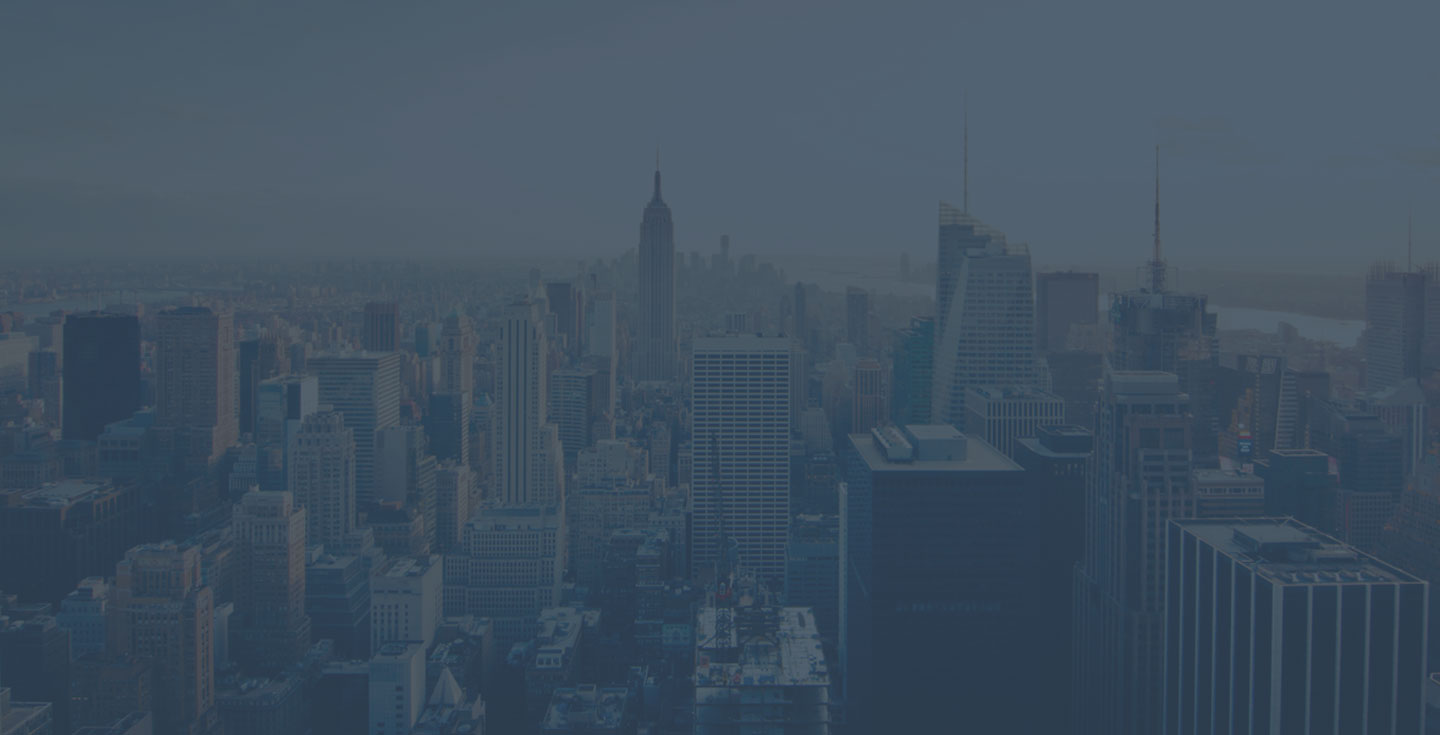
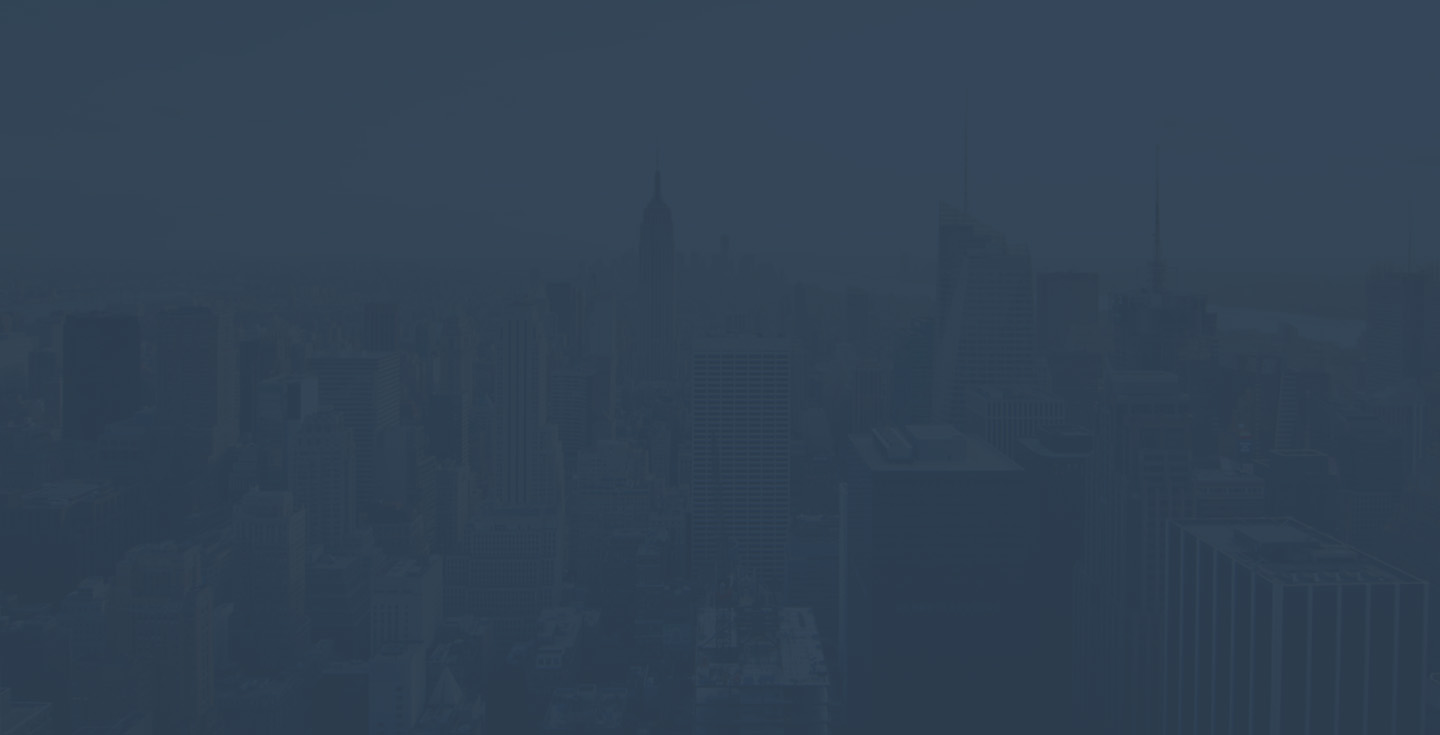
change font
change font

diff --git a/css/style.css b/css/style.css
@@ -2,6 +2,7 @@
 @import url("font-awesome.min.css");
 @import url("http://fonts.googleapis.com/css?family=Lato:300,400,900");
 
+
 /*
 	Twenty 1.0 by HTML5 UP
 	html5up.net | @n33co
@@ -12,6 +13,7 @@
 
 body, #skel-layers-wrapper {
     background: #f3f6fa;
+    font-family: 'Open Sans', sans-serif;
 }
 
 body.loading * {
@@ -653,7 +655,7 @@ table.default thead {
     letter-spacing: 0.075em;
     position: absolute;
     right: 1.5em;
-    text-transform: uppercase;
+ 
     top: 1em;
 }
 
@@ -699,7 +701,7 @@ table.default thead {
     -o-transition: all 0.2s ease-in-out;
     -ms-transition: all 0.2s ease-in-out;
     transition: all 0.2s ease-in-out;
-    background: rgba(0,0,0, 0.15);
+    background: #384d65;
     border-radius: 2px;
 }
 
@@ -882,18 +884,18 @@ table.default thead {
 }
 
 #banner .inner header h2 {
-    font-size: 1.2em;
+    font-size: 1.4em;
     font-weight: 900;
-    letter-spacing: 0.2em;
+    letter-spacing: 0.1em;
     margin: 0;
     padding-left: 0.05em;
     position: relative;
-    text-transform: uppercase;
+    
 }
 
 #banner .inner header p {
     font-size: 0.8em;
-    color: rgba(0, 0, 0, .4)
+    color: #5a6b7f;
 }
 
 #banner .inner p {
@@ -911,7 +913,7 @@ table.default thead {
     border-radius: 3px;
     text-decoration: none;
     border-bottom: none;
-    margin: 50px;
+    margin: 40px;
 }
 
 #banner .inner footer {
@@ -920,7 +922,8 @@ table.default thead {
     width: 760px;
     height: 340px;
     background-size: 100%;
-    margin: 50px;
+    margin: 30px;
+
 }
 
 /* Main */

diff --git a/index.html b/index.html
@@ -1,7 +1,7 @@
 <!DOCTYPE HTML>
 <html>
 	<head>
-		<title>Twenty</title>
+		<title>ZERO.JS</title>
 		<meta http-equiv="content-type" content="text/html; charset=utf-8" />
 		<meta name="description" content="" />
 		<meta name="keywords" content="" />
@@ -11,6 +11,7 @@
 		<script src="js/skel.min.js"></script>
 		<script src="js/skel-layers.min.js"></script>
 		<script src="js/init.js"></script>
+		<link href='http://fonts.googleapis.com/css?family=Open+Sans:400,600' rel='stylesheet' type='text/css'>
 		<!--[if lte IE 8]><link rel="stylesheet" href="css/ie/v8.css" /><![endif]-->
 		<!--[if lte IE 9]><link rel="stylesheet" href="css/ie/v9.css" /><![endif]-->
         <link rel="stylesheet" href="js/jquery.bxslider/jquery.bxslider.css">
